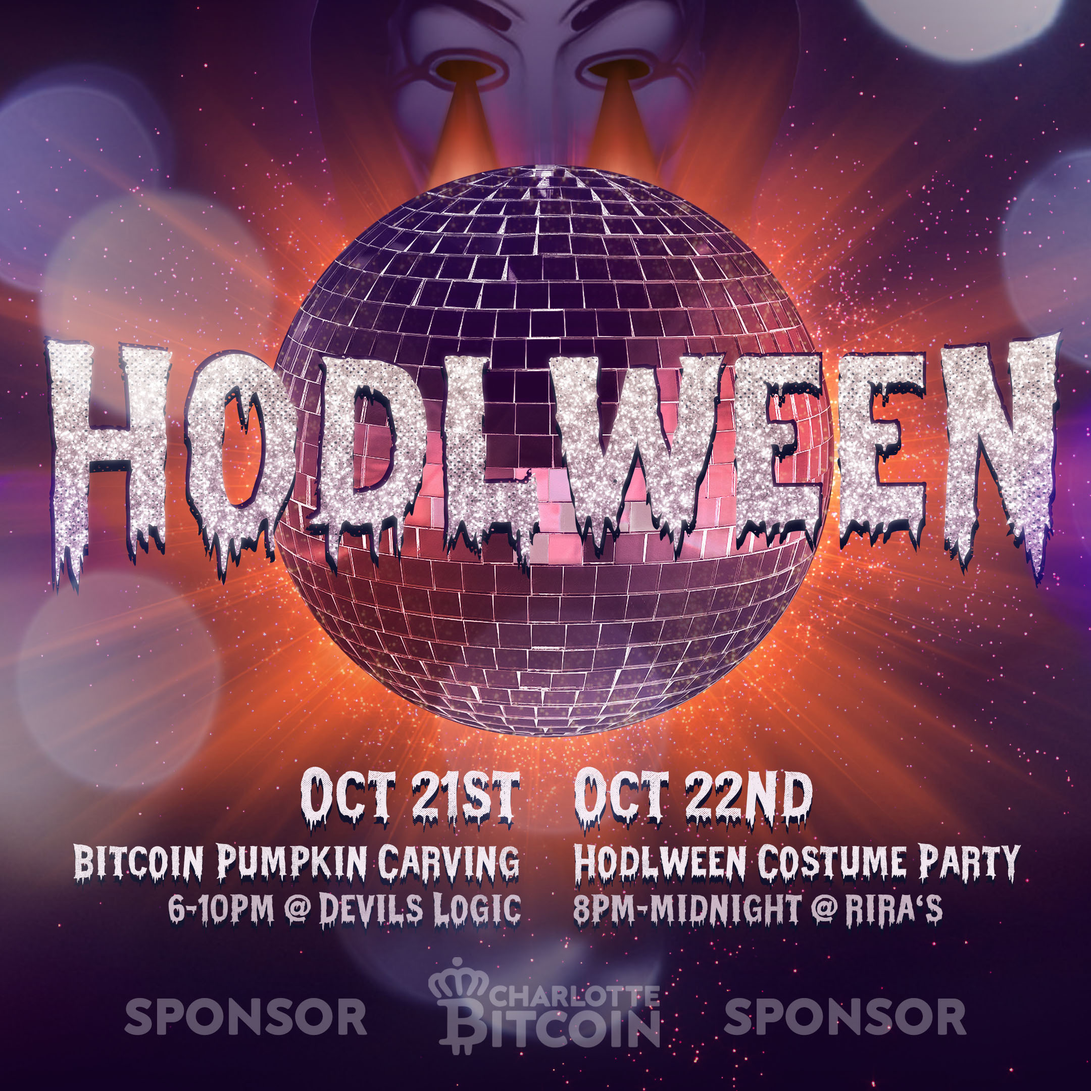
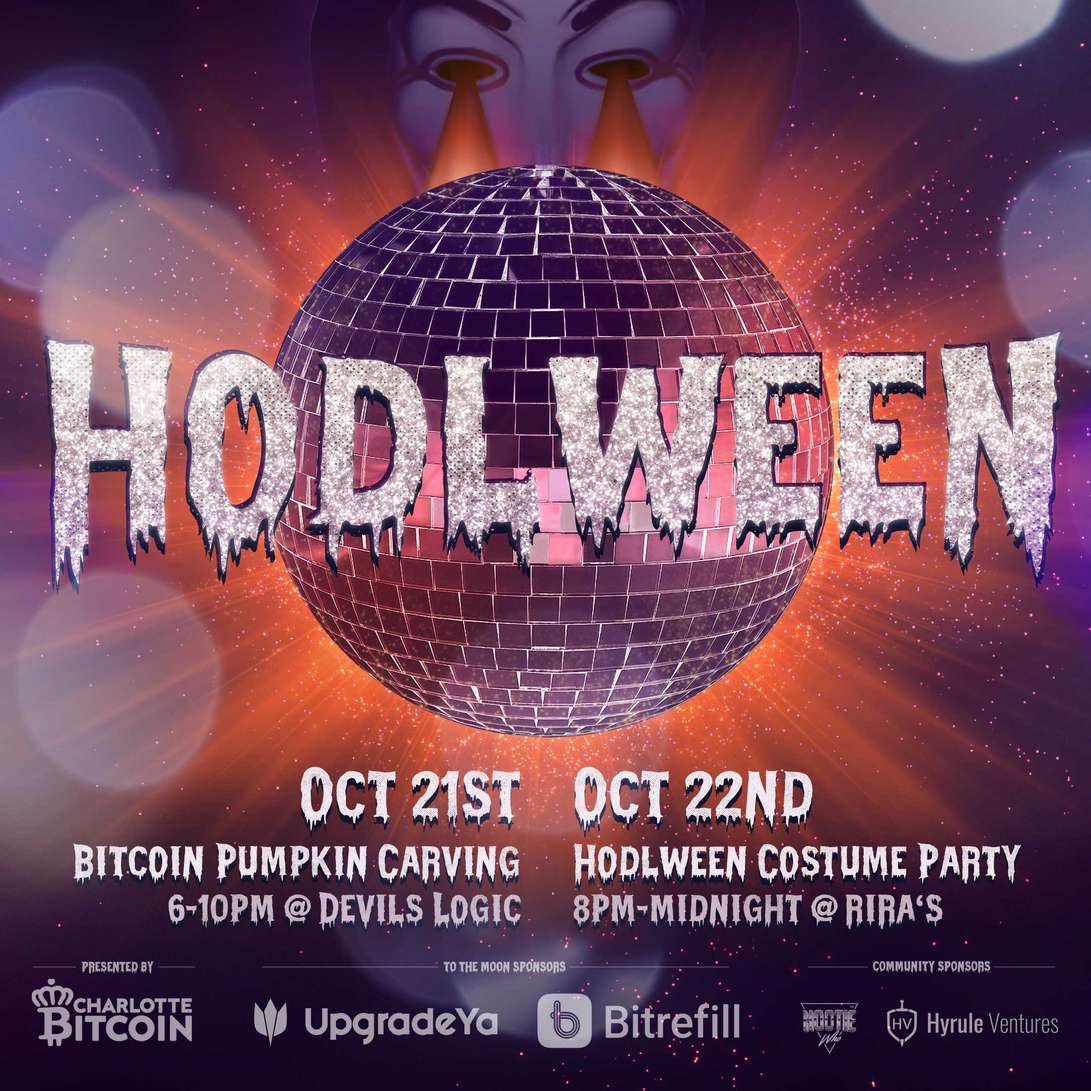
Update events page, hodlween, and about page sponsors.

Changed region(s): [[0.031, 0.8685, 0.9616, 0.9616]]

diff --git a/source/hodlween2021.md b/source/hodlween2021.md
@@ -22,9 +22,17 @@ active_tab: events
 
 <a class="cta" href="https://www.eventbrite.com/e/hodlween-pumpkin-carving-tickets-181334354937">Register!</a>
 
-Pumpkin carving, drinks, food, with guest speakers! We will be located on the upper level of Devil's Logic. Bring your own pumpkin and we will supply tools. Best Bitcoin themed pumpkin will win 100,000 satoshis! Don't know what at satoshi is?! You will by the end of the night!
+Night 1 of HODLween!
 
-Two nights of fun, education, and parties for friends, family, bitcoiners, and no-coiners - all are welcome here! Bring your pumpkin, fun, questions, friends, and family! We're here to have a good time!
+Pumpkin carving, **OPEN BAR**, and speakers! We will be located on the upper level of Devil's Logic which has a spectacular view of uptown Charlotte!
+
+**BYOP** - Bring your own pumpkin and we will supply tools.
+
+Best pumpkin(s) win **100,000 satoshis**! Don't know what at satoshi is?! You will by the end of the night!
+
+**ALL ARE WELCOME HERE!** Just as Bitcoin doesn't care about your age, status, race, etc - we don't either! Tell your friends, plebs, family, no-coiners - come join the fun and let's carve some pumpkins!
+
+Free parking is located in the deck across the street.
 
 Donations of $15 strongly encouraged so we can keep orange pilling the masses!
 
@@ -32,21 +40,25 @@ Donations of $15 strongly encouraged so we can keep orange pilling the masses!
 ---
 
 
-### Friday, Oct 22, 2021 - Ri Ra's in uptown Charlotte
+### Friday, Oct 22, 2021 - Ri Ra's in Uptown Charlotte
 
 <a class="cta" href="https://www.eventbrite.com/e/hodlween-costume-party-tickets-181360773957">Register!</a>
 
-LET'S GET WEIRD! DJ Skittles will be spinning beats from bitcoin mashups to funk to halloween mashups - you don't want to miss him! Dancing, drinks, prizes, and surprises!
+Night 2 of HODLween!
 
-**COSTUME CONTEST:**
+LET'S GET WEIRD! DJ Skittles will be spinning beats from bitcoin mashups to funk to halloween mashups - you don't want to miss him!
 
-Dress as Satoshi Nakamoto!
+**OPEN BAR from 8-10PM!**
+
+**REGISTER NOW:** If you are not on the list, it will be $20 at the door.
+
+**COSTUME CONTEST:** Dress as Satoshi Nakamoto!
 
 Don't know who Satoshi Nakamoto is?! Well none of us know! Who is Satoshi? This means you can dress as whoever or however you want!
 
-Best costume wins 250,000 Satoshis! Don't know what a satoshi is? You will by the end of the night!
+Best costume(s) win 250,000 satoshis! Don't know what a satoshi is? You will by the end of the night!
 
-**ALL ARE WELCOME HERE!** Just as Bitcoin doesn't care about your age, status, race, etc - we don't either! Tell your friends, plebs, family, no-coiners - come join the fun and let's boogie!
+**ALL ARE WELCOME HERE!** Just as Bitcoin doesn't care about your age, status, race, etc - we don't either! Tell your friends, plebs, family, no-coiners - come join the fun and let's boogie! **NOTE** - all are welcome as long as you're 21+ We love children but they'll have to sit this one out for now!
 
 $30 Donation strongly encouraged so we can keep orange pilling the masses!
 

diff --git a/source/about.md b/source/about.md
@@ -8,27 +8,27 @@ active_tab: about
 
 We provide bitcoin resources, socials, presentations, weekly briefs and more for the local community. Our intention is to connect like minded individuals, educate each other on best practices, and have fun while doing it!
 
+<i>Interested in having your Bitcoin company, product or service highlighted in our social media, newsletter, and at our events? <a href="mailto:jacob@bitcoincharlotte.org?subject=To the Moon Bitcoin Charlotte Sponsorship">Send us a message</a>! </i>
+
 ## To the Moon Sponsors! &#128640;
 
 <article style="margin:20px 0 50px">
 <div class="row">
-    <div class="col-7 col-md-6 col-lg-4">
+    <div class="col-7 col-md-6 col-lg-4 d-flex align-items-center">
         <a href="https://www.bitrefill.com/signup/?code=hrft8gzz"><img src="/assets/img/sponsors/bitrefilllogo.png" target="_blank" alt="Bitrefill" title="Bitrefill"/></a>
+    </div>
+    <div class="col-7 col-md-6 col-lg-4 d-flex align-items-center">
+        <a href="http://upgradeya.com/"><img src="/assets/img/sponsors/upgradeya.png" target="_blank" alt="UpgradeYa" title="UpgradeYa"/></a>
     </div>
 </div>
 </article>
 
 
-## Community Sponsors
-
-Functionality coming soon! In the meantime, <a href="mailto:jacob@bitcoincharlotte.org?subject=Become a Community Sponsor">email us</a> if you are interested in supporting Bitcoin Charlotte.
-
-
 ## Bitcoin Charlotte Team 
 
 
-Website admin, founder, organizer: [jacob@bitcoincharlotte.org](mailto:jacob@bitcoincharlotte.org)
+Founder, Organizer, and Website Admin: [jacob@bitcoincharlotte.org](mailto:jacob@bitcoincharlotte.org)
 
 Event Organizer: [liz@bitcoincharlotte.org](mailto:liz@bitcoincharlotte.org)
 
-Interested in having your Bitcoin company, product or service highlighted in our social media, newsletter, and at our events? <a href="mailto:jacob@bitcoincharlotte.org?subject=To the Moon Bitcoin Charlotte Sponsorship">Send us a message</a>! 
+
